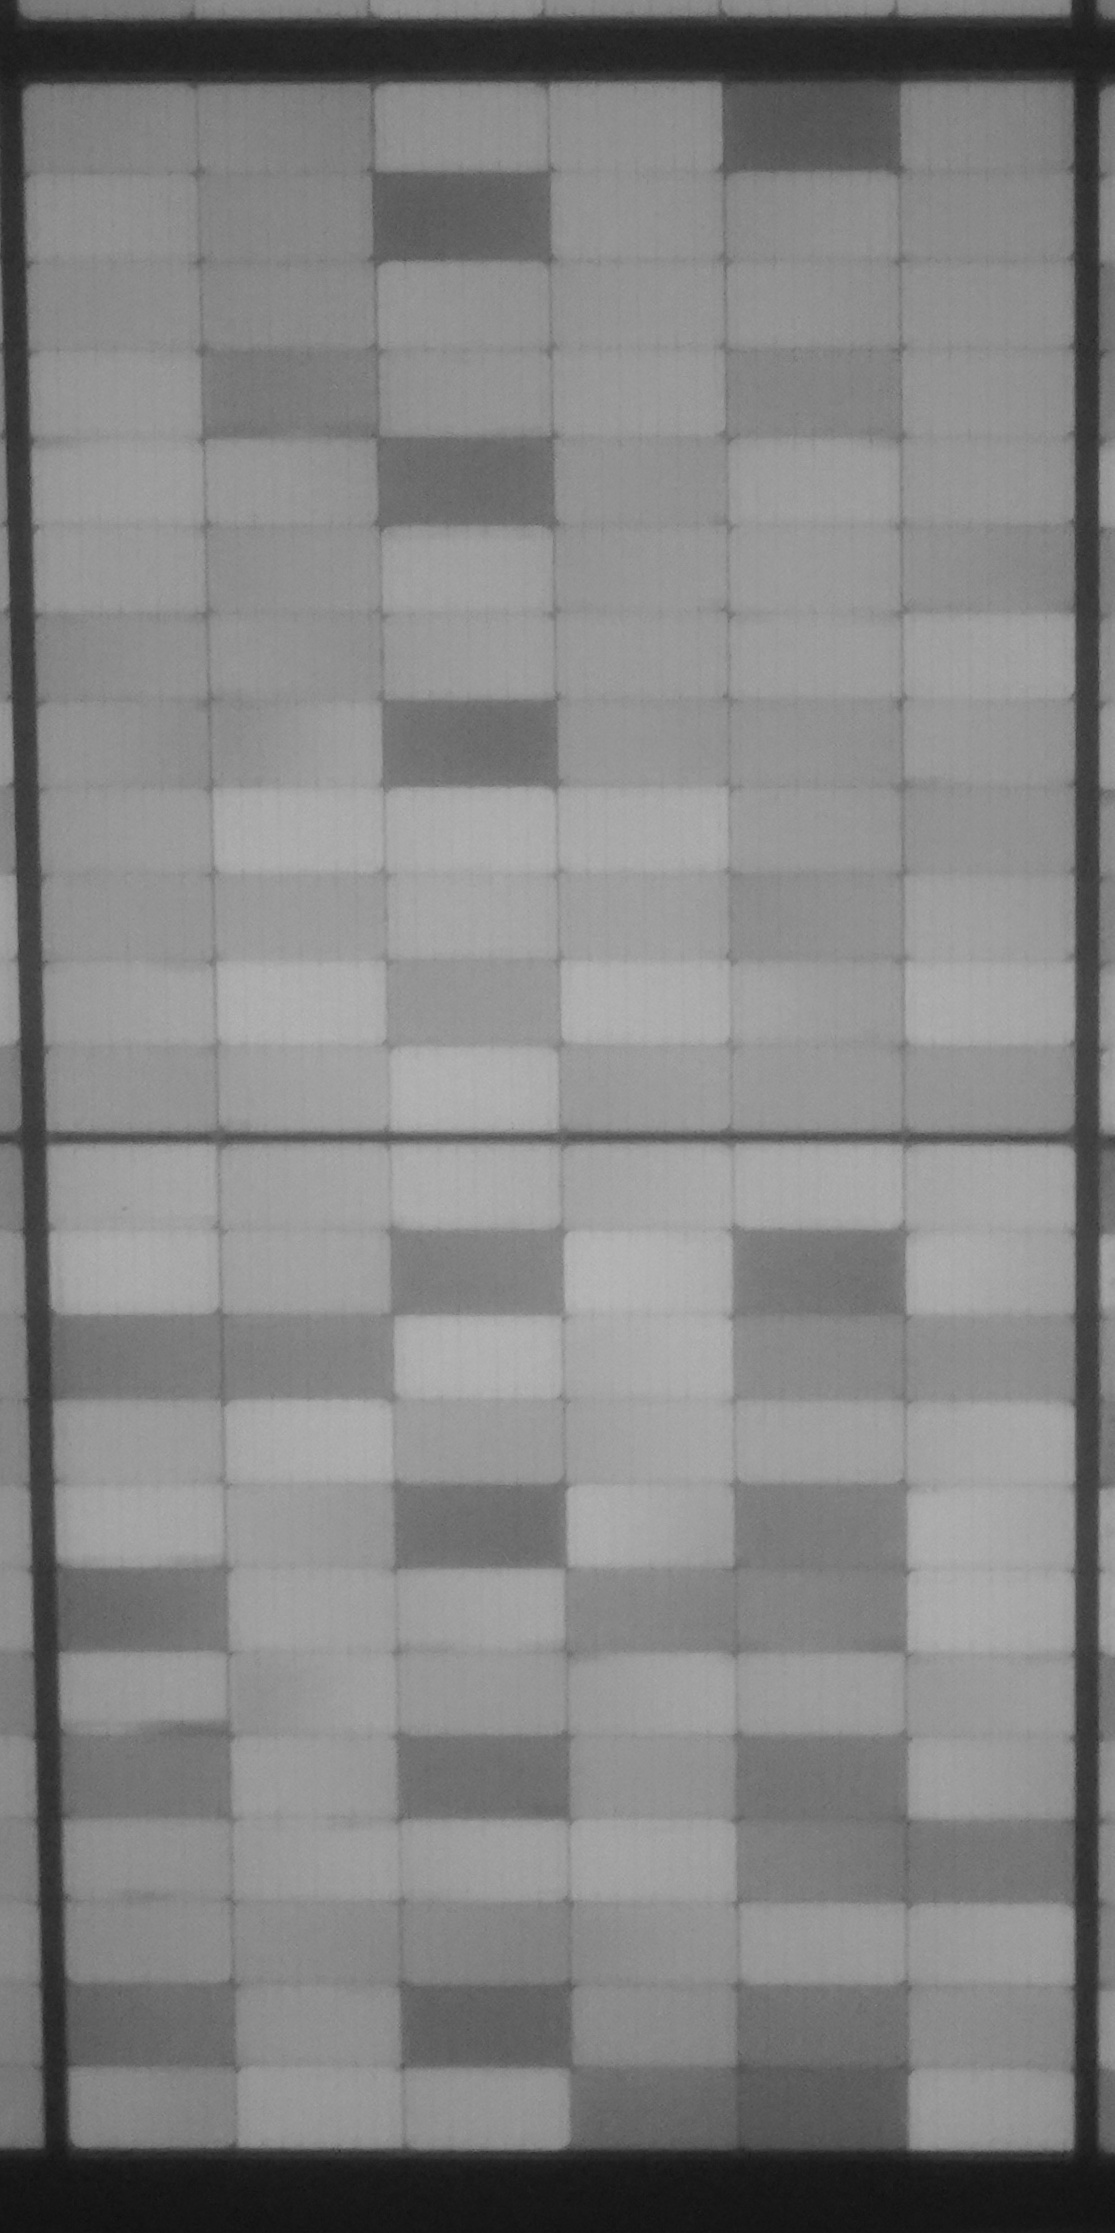
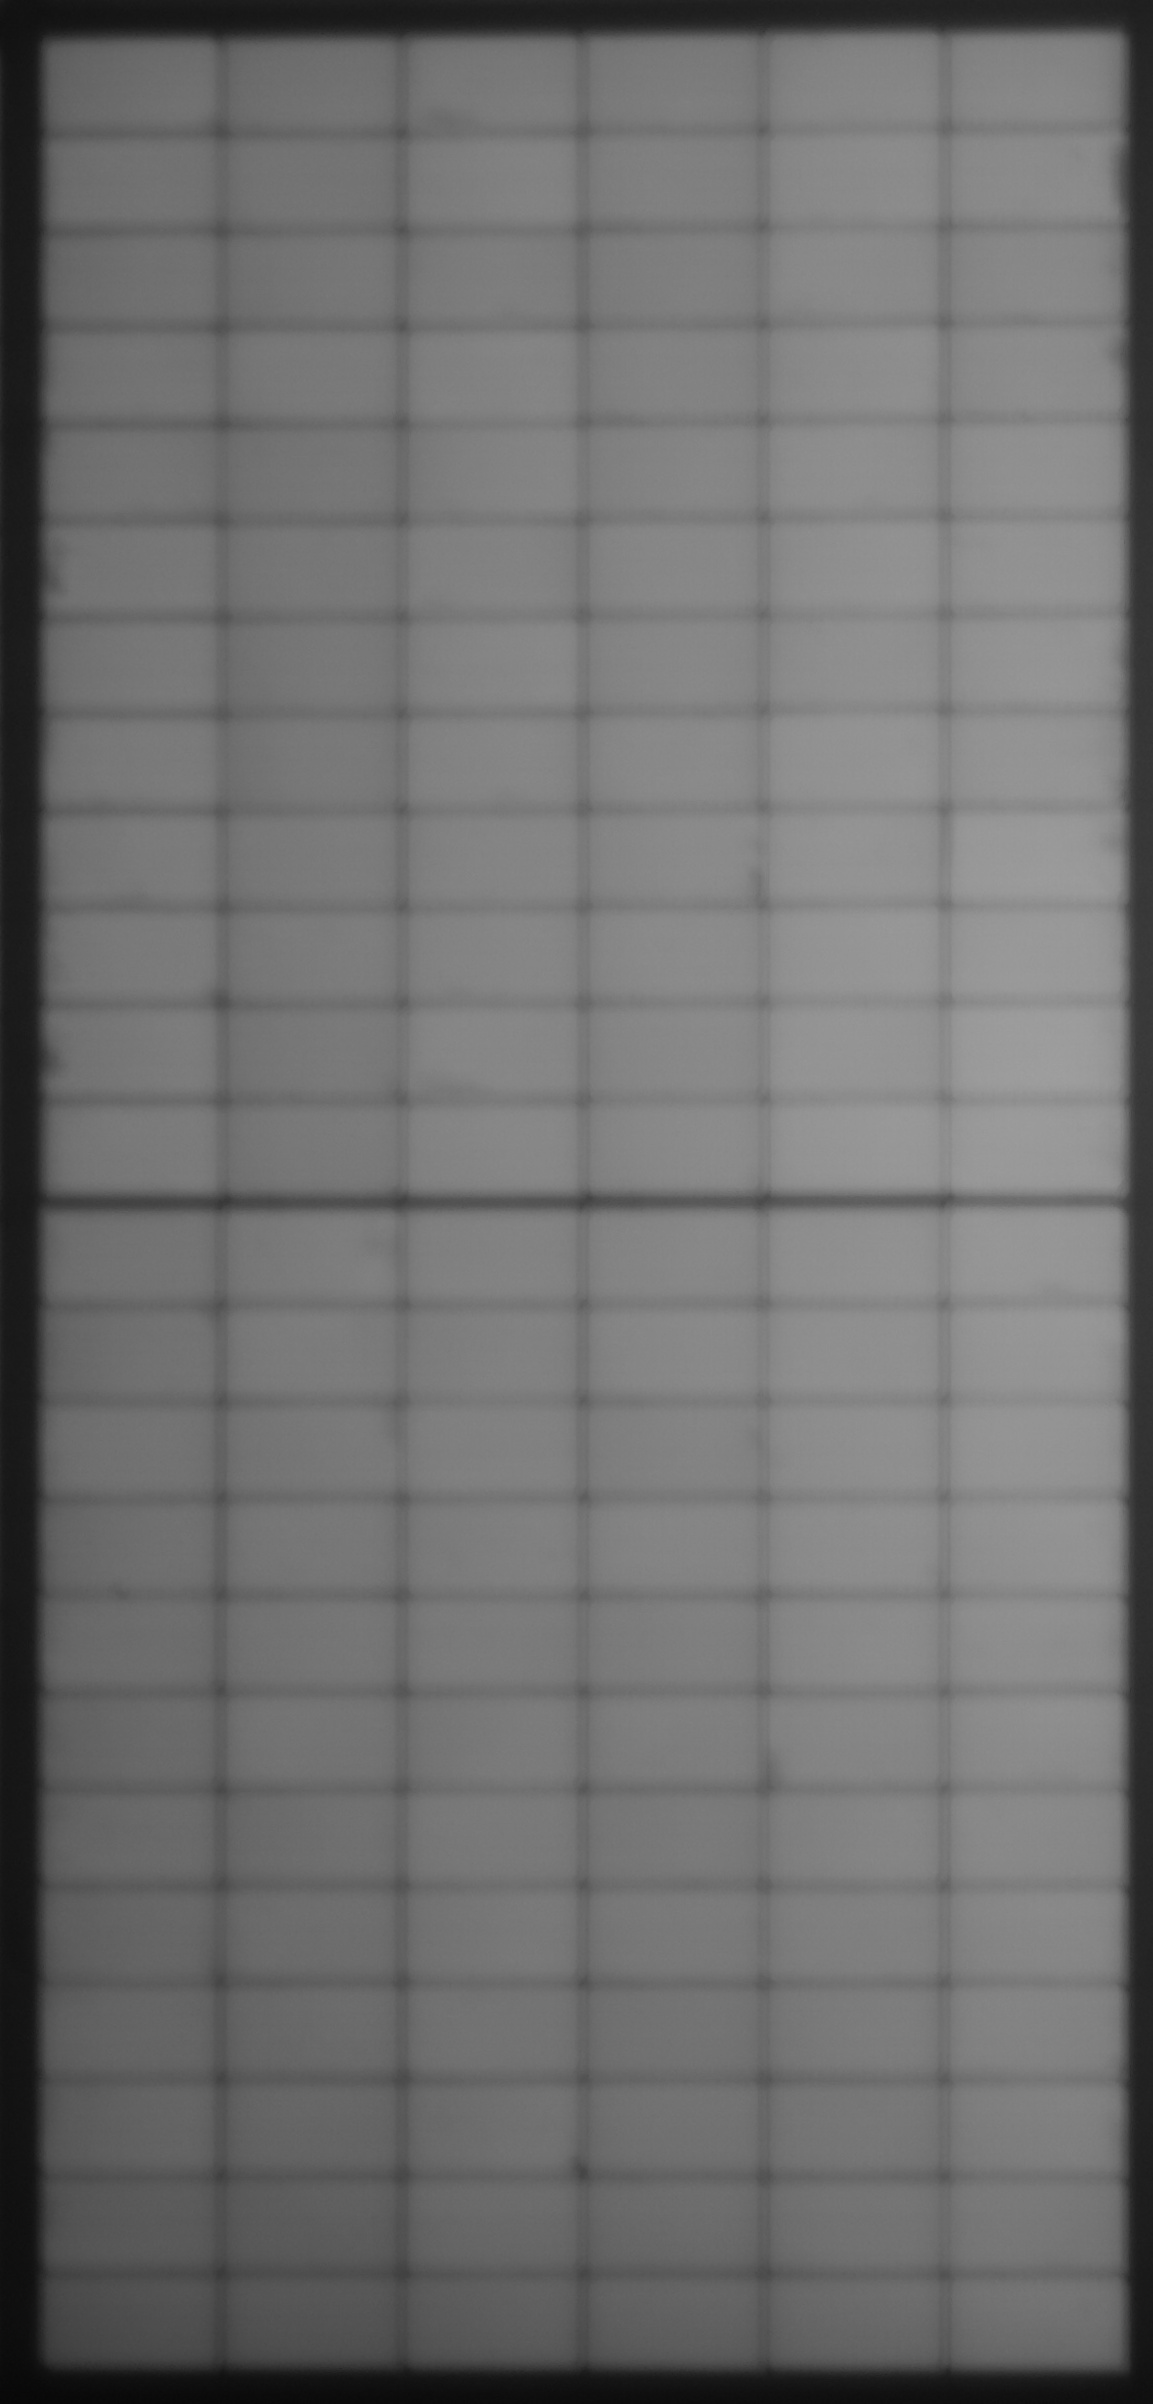
V26.05.20.14.31

diff --git a/src/content/blog/el-crop-v1.md b/src/content/blog/el-crop-v1.md
@@ -512,7 +512,7 @@ for fut, idx in futures.items():
 
 ### 7.3 已登录主界面
 
-![主界面](/images/blog/el-crop-v1/Logged-in interface.png)
+![主界面](/images/blog/el-crop-v1/Logged-in-interface.png)
 
 *图：登录后的主界面。包含图片上传区、裁剪预览区域、参数设置等核心功能模块。*
 
@@ -690,7 +690,6 @@ def _hash_password(password, salt):
 |------|--------|
 | **管理员** | 裁剪图片 + 管理用户（增删改） |
 | **普通用户** | 仅裁剪图片 |
-
 ---
 
 ## 10. 学习系统（偏差累积）
